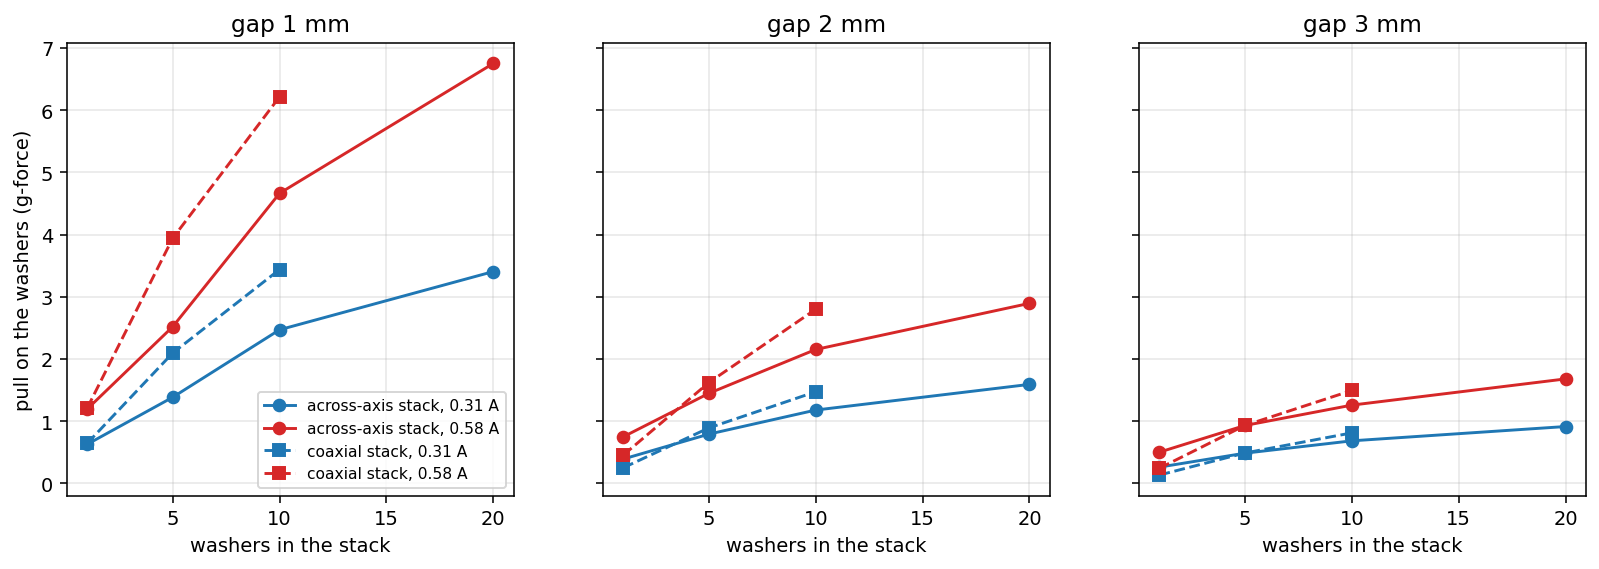
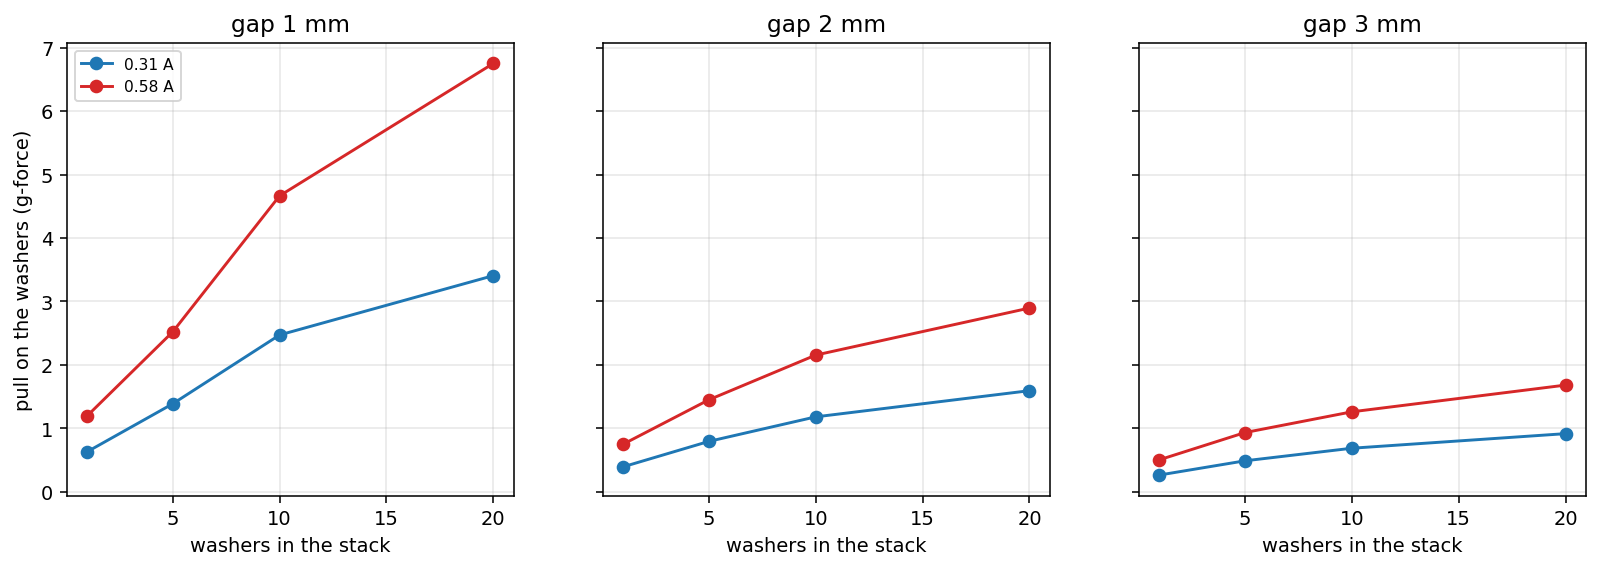
Drop the coaxial stack from the across-axis force figure.

diff --git a/simulations/ledex_femm/plot_fea3d.py b/simulations/ledex_femm/plot_fea3d.py
@@ -95,16 +95,18 @@ def main():
                  "dashed line = plunger tip)", fontsize=11)
     fig.savefig(os.path.join(READ, "across_field_10washers_gap2mm.png"), dpi=140, bbox_inches="tight")
     plt.close(fig)
-    # force vs washers, across vs axial
+    plot_forces()
+
+
+def plot_forces():
+    """Force vs washers for the across-axis tower (reads results/fea3d.csv; no solving)."""
     rows = list(csv.DictReader(open(os.path.join(HERE, "results", "fea3d.csv"))))
     d = {(r["kind"], int(r["n_washers"]), float(r["gap_mm"]), float(r["current_A"])): float(r["force_g"]) for r in rows}
     fig, axs = plt.subplots(1, 3, figsize=(14, 4.2), sharey=True)
     for ax, g in zip(axs, (1.0, 2.0, 3.0)):
-        for kind, mk, ls in (("across", "o", "-"), ("axial", "s", "--")):
-            for I, c in ((0.31, "tab:blue"), (0.58, "tab:red")):
-                ns = [n for n in (1, 5, 10, 20) if (kind, n, g, I) in d]
-                ax.plot(ns, [d[(kind, n, g, I)] for n in ns], marker=mk, ls=ls, color=c,
-                        label="{} stack, {} A".format("across-axis" if kind == "across" else "coaxial", I))
+        for I, c in ((0.31, "tab:blue"), (0.58, "tab:red")):
+            ns = [n for n in (1, 5, 10, 20) if ("across", n, g, I) in d]
+            ax.plot(ns, [d[("across", n, g, I)] for n in ns], marker="o", color=c, label="{} A".format(I))
         ax.set_title("gap {:g} mm".format(g))
         ax.set_xlabel("washers in the stack")
         ax.grid(alpha=0.3)
@@ -115,4 +117,5 @@ def main():
 
 
 if __name__ == "__main__":
-    main()
+    import sys
+    plot_forces() if sys.argv[1:] == ["forces"] else main()
